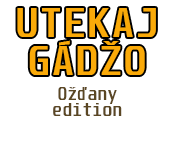
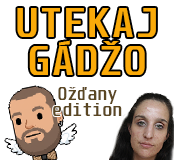
Rename Flappy Bird to Flappy Gordy everywhere

Changed region(s): [[0.0287, 0.5312, 0.4598, 1.0], [0.6034, 0.5625, 1.0, 1.0]]

diff --git a/JS-Flappy-Bird/index.html b/JS-Flappy-Bird/index.html
@@ -4,7 +4,7 @@
     <meta charset="UTF-8">
     <meta name="viewport" content="width=device-width, initial-scale=1.0, maximum-scale=1.0, user-scalable=no, viewport-fit=cover">
     <meta http-equiv="X-UA-Compatible" content="ie=edge">
-    <title>FlappyBird</title>
+    <title>Flappy Gordy</title>
     <link rel="stylesheet" href="style.css" > 
     <link href="https://fonts.googleapis.com/css?family=Squada+One&display=swap" rel="stylesheet">
 </head>

diff --git a/JS-Flappy-Bird/README.md b/JS-Flappy-Bird/README.md
@@ -1,5 +1,5 @@
-# JS-Flappy-Bird
-Remake of the Original FlappyBird Using **JS** &amp; **HTML Canvas** 
+# Flappy Gordy
+Remake of the Original Flappy Bird Using **JS** &amp; **HTML Canvas** 
 # [Play it.](https://aaarafat.github.io/JS-Flappy-Bird/index.html)
 # Demo
 ![Demo](https://user-images.githubusercontent.com/44725090/67148880-e7dba280-f2a4-11e9-8dbf-d154842ee0cf.gif)
